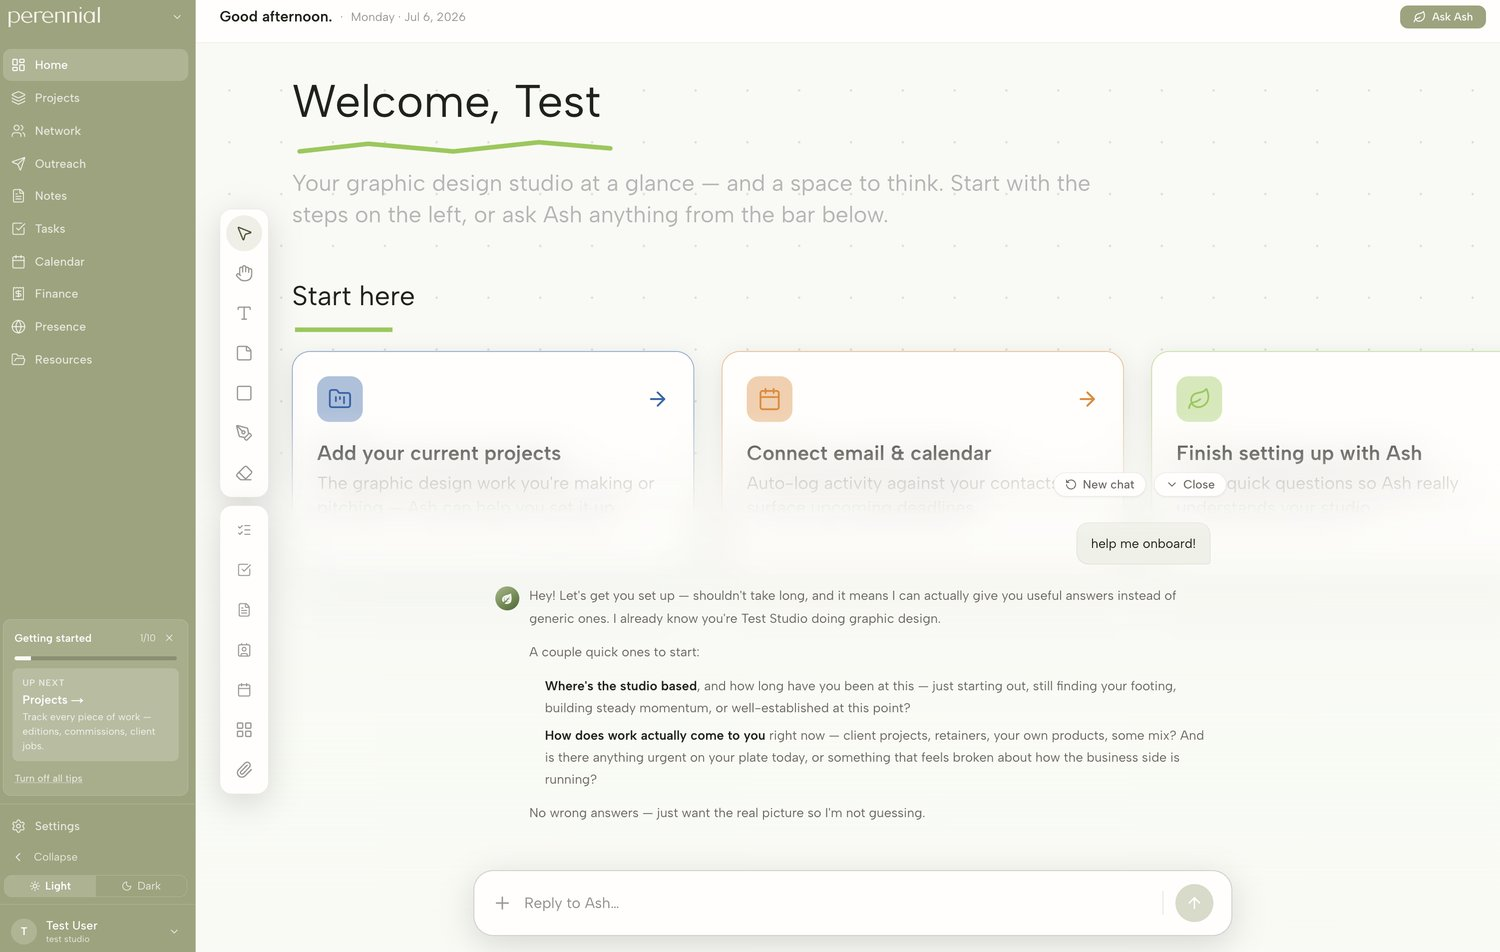
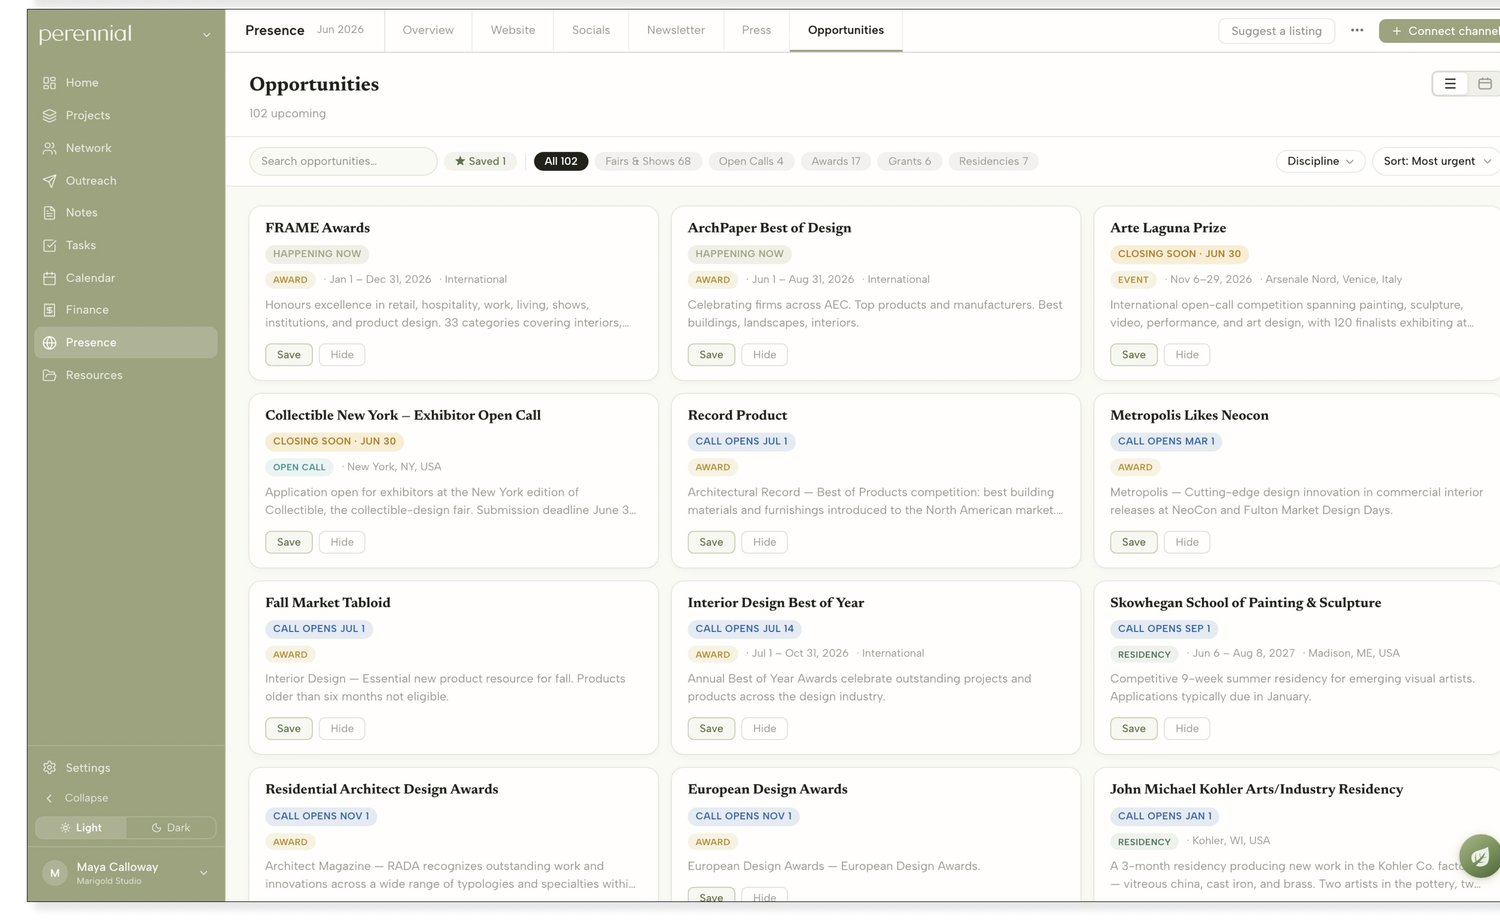
Swap Perennial + Waiting heroes for opportunities feed and horizontal spread
Perennial now leads with the app's Opportunities feed (re-rendered from the
source PDF at high res for a crisp screenshot). Waiting swaps its portrait
cover for a horizontal magazine spread, matching the other landscape heroes.
Drop the now-unused .doc-hero--top rule.

diff --git a/index.html b/index.html
@@ -59,8 +59,8 @@
     <h2>Recent projects</h2>
 
     <div class="doc-item">
-      <a class="doc-hero" href="https://app.perennial.design" target="_blank" aria-label="Perennial — the studio dashboard">
-        <img src="assets/hero/perennial.jpg" alt="The Perennial app: a studio dashboard with projects, onboarding, and an assistant." width="1500" height="952" loading="eager" fetchpriority="high" decoding="async"/>
+      <a class="doc-hero" href="https://app.perennial.design" target="_blank" aria-label="Perennial — the opportunities feed">
+        <img src="assets/hero/perennial.jpg" alt="The Perennial app: an opportunities feed of awards, open calls, and residencies for designers." width="1500" height="924" loading="eager" fetchpriority="high" decoding="async"/>
       </a>
       <p class="doc-url"><a href="https://app.perennial.design" target="_blank">app.perennial.design ↗</a></p>
       <p>I built an all-in-one tool for running an independent design studio: projects, CRM, and operations in one place.</p>
@@ -83,8 +83,8 @@
     </div>
 
     <div class="doc-item">
-      <a class="doc-hero doc-hero--top" href="https://www.waitingmag.com" target="_blank" aria-label="Waiting Magazine — cover of the third edition">
-        <img src="assets/hero/waiting.jpg" alt="Cover of Waiting Magazine's third edition." width="646" height="772" loading="lazy" decoding="async"/>
+      <a class="doc-hero" href="https://www.waitingmag.com" target="_blank" aria-label="Waiting Magazine — a printed feature spread">
+        <img src="assets/hero/waiting.jpg" alt="A printed feature spread from Waiting Magazine: a subject laughing in a doorway." width="1500" height="930" loading="lazy" decoding="async"/>
       </a>
       <p class="doc-url"><a href="https://www.waitingmag.com" target="_blank">waitingmag.com ↗</a></p>
       <p>I started a print and digital magazine for New York's working class creatives, particularly from the food and beverage industry.</p>

diff --git a/main/v2.css b/main/v2.css
@@ -119,11 +119,6 @@
   object-fit: cover;
   object-position: center;
 }
-/* portrait sources (e.g. a magazine cover) anchor to the top so the
-   masthead / title stays in frame after the landscape crop */
-.doc-hero--top img {
-  object-position: center top;
-}
 /* the hero is a link, so opt it out of the global .doc a hover fade */
 .doc-hero:hover {
   border-color: var(--accent);
